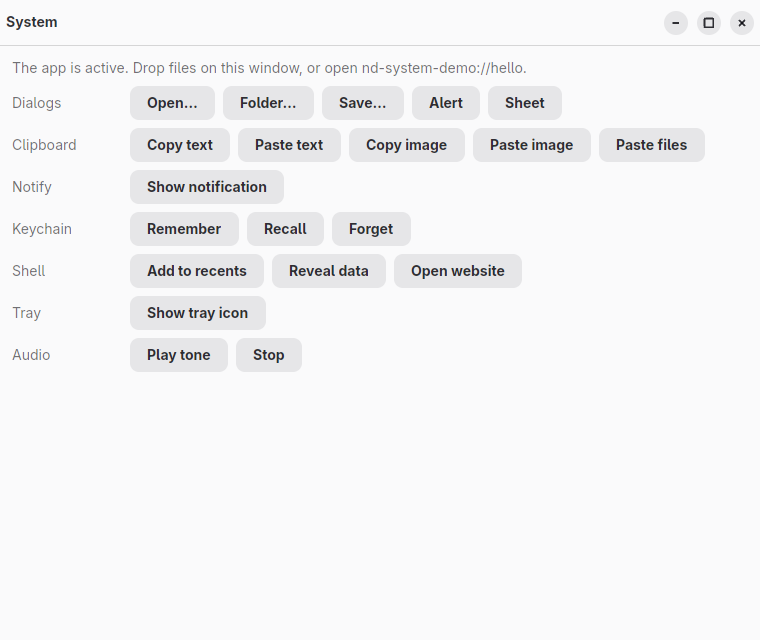
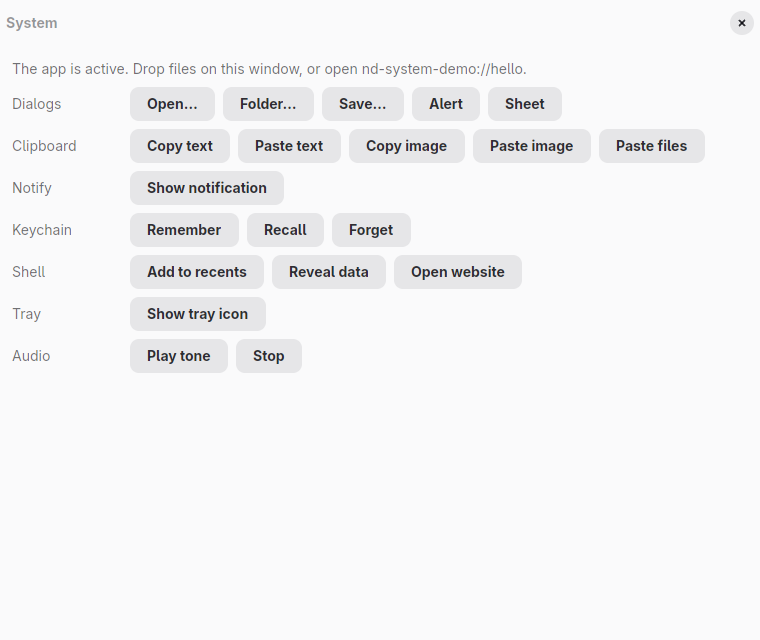
feat(nd-cli): capture linux at scale 2 through wlr-randr

diff --git a/crates/nd-os-linux/src/hooks.rs b/crates/nd-os-linux/src/hooks.rs
@@ -4,9 +4,12 @@
 //!   rules on it (Hyprland's `class`) see the app's name.
 //! - The titlebar insets and the drawn controls follow [`crate::chrome::plan`]: nothing at all
 //!   under server-side decorations (Hyprland), and under client-side ones only the controls
-//!   `wm_capabilities` offers, on the sides the desktop's `button-layout` puts them.  They are
-//!   drawn over every window at the header bar's ends, as every libadwaita window has them, so
-//!   a `window_controls()` node draws nothing: the buttons have one place, as on Windows.
+//!   `wm_capabilities` offers, on the sides the desktop's `button-layout` puts them. An embedded
+//!   `window_controls()` slot draws its group where it sits (a split header's sidebar and
+//!   content ends); the window overlay draws every group no slot took at the header bar's ends,
+//!   so a window without a slot still has its close button, as every libadwaita window does.
+//!   The layout is `org.gnome.desktop.wm.preferences button-layout`, GNOME's `appmenu:close`
+//!   where it cannot be read.
 //! - Frame times come from `wp_presentation` (the fork's `Window::last_presentation`): the
 //!   timestamp is when the previous frame turned into light and the target is the next refresh
 //!   after now on the compositor's predicted cadence, rather than "now plus one interval".
@@ -26,10 +29,10 @@ use nd_gpui::gpui::{
 };
 use nd_icons::Icon;
 use nd_theme::color::with_alpha;
-use nd_ui::TitlebarInsets;
+use nd_ui::{TitlebarInsets, WindowControlsSide};
 
 use crate::chrome::{self, ButtonLayout, Control, ControlMetrics};
-use crate::window::{button_layout, chrome_state, perform, requested_decorations};
+use crate::window::{chrome_state, perform, requested_decorations};
 
 /// The header bar height the controls centre in, libadwaita's 46 px.
 pub const TITLEBAR_HEIGHT: f32 = 46.;
@@ -41,6 +44,15 @@ pub struct LinuxHooks {
     /// Read when a window opens; the hooks that draw are not handed GPUI's app.
     layout: RefCell<ButtonLayout>,
     reported: RefCell<HashMap<WindowId, String>>,
+    /// The groups embedded slots took, per window: in the frame being built, and in the last
+    /// one, which the insets (asked before the build) go by.
+    claimed: RefCell<HashMap<WindowId, (Claimed, Claimed)>>,
+}
+
+#[derive(Clone, Copy, Default, PartialEq, Eq)]
+struct Claimed {
+    leading: bool,
+    trailing: bool,
 }
 
 impl LinuxHooks {
@@ -51,6 +63,7 @@ impl LinuxHooks {
             diag: std::env::var_os("ND_DIAG_WINDOW").is_some_and(|v| v == "1"),
             layout: RefCell::default(),
             reported: RefCell::default(),
+            claimed: RefCell::default(),
         }
     }
 
@@ -68,8 +81,15 @@ impl LinuxHooks {
         plan
     }
 
-    /// The plan's buttons at the header bar's leading and trailing ends.
-    fn controls(&self, plan: &chrome::ChromePlan, look: Look) -> AnyElement {
+    /// The groups no slot took in the last frame, at the header bar's ends.
+    fn unclaimed(&self, window: WindowId, plan: &chrome::ChromePlan) -> (Vec<Control>, Vec<Control>) {
+        let last = self.claimed.borrow().get(&window).map(|c| c.1).unwrap_or_default();
+        let keep = |claimed: bool, side: &[Control]| if claimed { Vec::new() } else { side.to_vec() };
+        (keep(last.leading, &plan.leading), keep(last.trailing, &plan.trailing))
+    }
+
+    /// One group of the plan's buttons in a row the header bar's height.
+    fn controls(&self, controls: &[Control], look: Look) -> gpui::Div {
         let m = self.metrics;
         // libadwaita's window buttons: a circle of the text colour at 10% (15% hovered, 30%
         // pressed) behind a 16 px symbolic icon, close included.
@@ -96,27 +116,15 @@ impl LinuxHooks {
                 .on_click(move |_, window, _| perform(control, window))
                 .child(icon_glyph(icon, px(12.), look.text, px(2.)))
         };
-        let row = |controls: &[Control]| {
-            div()
-                .flex()
-                .flex_row()
-                .items_center()
-                .h(px(TITLEBAR_HEIGHT))
-                .px(px(m.padding))
-                .gap(px(m.spacing))
-                .children(controls.iter().map(|c| button(*c)))
-        };
         div()
-            .absolute()
-            .top_0()
-            .left_0()
-            .right_0()
             .flex()
             .flex_row()
-            .justify_between()
-            .child(row(&plan.leading))
-            .child(row(&plan.trailing))
-            .into_any_element()
+            .flex_none()
+            .items_center()
+            .h(px(TITLEBAR_HEIGHT))
+            .px(px(m.padding))
+            .gap(px(m.spacing))
+            .children(controls.iter().map(|c| button(*c)))
     }
 }
 
@@ -144,8 +152,8 @@ impl OsHooks for LinuxHooks {
         interface_setting("accent-color").and_then(|name| accent_palettes(&name)).unwrap_or_default()
     }
 
-    fn window_opened(&self, _window: WindowId, _gpui_window: &mut gpui::Window, cx: &mut gpui::App) {
-        *self.layout.borrow_mut() = button_layout(cx);
+    fn window_opened(&self, _window: WindowId, _gpui_window: &mut gpui::Window, _cx: &mut gpui::App) {
+        *self.layout.borrow_mut() = button_layout();
     }
 
     fn titlebar_insets(&self, window: WindowId, gpui_window: &gpui::Window) -> Option<TitlebarInsets> {
@@ -153,11 +161,40 @@ impl OsHooks for LinuxHooks {
         if plan.is_empty() {
             return Some(TitlebarInsets::default());
         }
-        Some(TitlebarInsets { leading: plan.leading_inset, trailing: plan.trailing_inset, height: TITLEBAR_HEIGHT })
+        let last = self.claimed.borrow().get(&window).map(|c| c.1).unwrap_or_default();
+        let inset = |claimed: bool, inset: f32| if claimed { 0. } else { inset };
+        Some(TitlebarInsets {
+            leading: inset(last.leading, plan.leading_inset),
+            trailing: inset(last.trailing, plan.trailing_inset),
+            height: TITLEBAR_HEIGHT,
+        })
     }
 
-    fn window_controls(&self, _cx: &ChromeContext, _gpui_window: &mut gpui::Window) -> Option<AnyElement> {
-        Some(div().absolute().into_any_element())
+    /// An embedded slot draws its group in place; a pinned or OS-side node leaves the
+    /// controls to the overlay, which keeps them at the header bar's ends.
+    fn window_controls(&self, cx: &ChromeContext, gpui_window: &mut gpui::Window) -> Option<AnyElement> {
+        if !cx.embedded {
+            return Some(div().absolute().into_any_element());
+        }
+        let (leading, trailing) = match cx.side {
+            Some(WindowControlsSide::Leading) => (true, false),
+            Some(WindowControlsSide::Trailing) => (false, true),
+            None => (true, true),
+        };
+        let mut claimed = self.claimed.borrow_mut();
+        let now = &mut claimed.entry(cx.window).or_default().0;
+        now.leading |= leading;
+        now.trailing |= trailing;
+        drop(claimed);
+        let plan = self.plan(cx.window, gpui_window);
+        let mut group = Vec::new();
+        if leading {
+            group.extend(&plan.leading);
+        }
+        if trailing {
+            group.extend(&plan.trailing);
+        }
+        Some(self.controls(&group, cx.look).into_any_element())
     }
 
     fn window_overlay(
@@ -167,8 +204,28 @@ impl OsHooks for LinuxHooks {
         _title_height: f32,
         gpui_window: &mut gpui::Window,
     ) -> Option<AnyElement> {
+        // The overlay is asked after the build, so this frame's slots are all in.
+        if let Some((now, last)) = self.claimed.borrow_mut().get_mut(&window) {
+            *last = std::mem::take(now);
+        }
         let plan = self.plan(window, gpui_window);
-        (!plan.is_empty()).then(|| self.controls(&plan, look))
+        let (leading, trailing) = self.unclaimed(window, &plan);
+        if leading.is_empty() && trailing.is_empty() {
+            return None;
+        }
+        Some(
+            div()
+                .absolute()
+                .top_0()
+                .left_0()
+                .right_0()
+                .flex()
+                .flex_row()
+                .justify_between()
+                .child(self.controls(&leading, look))
+                .child(self.controls(&trailing, look))
+                .into_any_element(),
+        )
     }
 
     fn frame_time(&self, frame: &FrameRequest, gpui_window: &gpui::Window) -> Option<FrameTime> {
@@ -183,13 +240,25 @@ impl OsHooks for LinuxHooks {
 
     fn window_closed(&self, window: WindowId) {
         self.reported.borrow_mut().remove(&window);
+        self.claimed.borrow_mut().remove(&window);
     }
 }
 
-/// One key of `org.gnome.desktop.interface`, unquoted; `None` without the schema.
+/// GNOME's `button-layout`, the key the settings portal serves and GTK's
+/// `gtk-decoration-layout` follows. GPUI reads it too, but answers Zed's
+/// `minimize,maximize,close` when it is missing, where GNOME would show close alone.
+fn button_layout() -> ButtonLayout {
+    setting("org.gnome.desktop.wm.preferences", "button-layout").map(|l| ButtonLayout::parse(&l)).unwrap_or_default()
+}
+
 fn interface_setting(key: &str) -> Option<String> {
+    setting("org.gnome.desktop.interface", key)
+}
+
+/// One gsettings key, unquoted; `None` without the schema.
+fn setting(schema: &str, key: &str) -> Option<String> {
     let out = std::process::Command::new("gsettings")
-        .args(["get", "org.gnome.desktop.interface", key])
+        .args(["get", schema, key])
         .stderr(std::process::Stdio::null())
         .output()
         .ok()?;

diff --git a/crates/nd-ui/src/element.rs b/crates/nd-ui/src/element.rs
@@ -1098,6 +1098,17 @@ pub struct WindowControlsProps {
     /// A layout slot the size of the controls: the backend moves the real buttons onto the
     /// slot's rect on every layout pass, so they ride with whatever moves the slot.
     pub embedded: bool,
+    /// Which of the OS's two groups an embedded slot takes, where the OS splits them by the
+    /// desktop's button layout (GNOME); `None` takes both. A split header puts the leading
+    /// group at the start of its sidebar header and the trailing one at the end of its content
+    /// header. macOS and Windows keep one group and ignore it.
+    pub side: Option<WindowControlsSide>,
+}
+
+#[derive(Clone, Copy, Debug, PartialEq, Eq, Hash)]
+pub enum WindowControlsSide {
+    Leading,
+    Trailing,
 }
 
 /// The window's own controls (traffic lights on macOS, ARCHITECTURE.md 5.4). The buttons stay
@@ -1107,7 +1118,7 @@ pub struct WindowControls(NativeElement<WindowControlsProps>);
 
 #[track_caller]
 pub fn window_controls() -> WindowControls {
-    let props = WindowControlsProps { at: None, embedded: false };
+    let props = WindowControlsProps { at: None, embedded: false, side: None };
     let element = NativeElement::new::<WindowControls>(Key::Site(Location::caller()), props);
     WindowControls(element.absolute())
 }
@@ -1119,6 +1130,18 @@ impl WindowControls {
         self.0.props_mut().at = None;
         self.0.style().position = Some(nd_gpui::gpui::Position::Relative);
         self
+    }
+
+    /// Embedded, only the controls the desktop puts at the window's start.
+    pub fn leading(mut self) -> Self {
+        self.0.props_mut().side = Some(WindowControlsSide::Leading);
+        self.embedded()
+    }
+
+    /// Embedded, only the controls the desktop puts at the window's end.
+    pub fn trailing(mut self) -> Self {
+        self.0.props_mut().side = Some(WindowControlsSide::Trailing);
+        self.embedded()
     }
 
     pub fn props(&self) -> &WindowControlsProps {

diff --git a/crates/nd-os-linux/src/window.rs b/crates/nd-os-linux/src/window.rs
@@ -3,9 +3,9 @@
 //! `set_mode` for the decorations the window was opened with, and stores the compositor's
 //! `configure` answer and `wm_capabilities`. This module only reads those back.
 
-use nd_gpui::gpui::{self, App, Window, WindowButton, WindowButtonLayout, WindowDecorations};
+use nd_gpui::gpui::{self, Window, WindowDecorations};
 
-use crate::chrome::{ButtonLayout, Capabilities, ChromePlan, ChromeState, Control, ControlMetrics, Decorations};
+use crate::chrome::{ButtonLayout, Capabilities, ChromeState, Control, Decorations};
 
 /// What nd asks the compositor for. Server-side wherever the compositor offers it, unless
 /// `ND_CLIENT_DECORATIONS=1` asks for the frame GNOME gets (docs captures, chrome checks under a
@@ -35,31 +35,6 @@ pub fn chrome_state(window: &Window, layout: &ButtonLayout) -> ChromeState {
         layout: layout.clone(),
         fullscreen: window.is_fullscreen(),
     }
-}
-
-pub fn chrome_plan(window: &Window, cx: &App) -> ChromePlan {
-    crate::chrome::plan(&chrome_state(window, &button_layout(cx)), ControlMetrics::default())
-}
-
-/// The desktop's `button-layout` as GPUI read it (from the settings portal on Linux), or GNOME's
-/// default where it has none.
-pub fn button_layout(cx: &App) -> ButtonLayout {
-    cx.button_layout().map(from_gpui).unwrap_or_default()
-}
-
-fn from_gpui(layout: WindowButtonLayout) -> ButtonLayout {
-    let side = |buttons: &[Option<WindowButton>]| {
-        buttons
-            .iter()
-            .flatten()
-            .map(|b| match b {
-                WindowButton::Minimize => Control::Minimize,
-                WindowButton::Maximize => Control::Maximize,
-                WindowButton::Close => Control::Close,
-            })
-            .collect()
-    };
-    ButtonLayout { leading: side(&layout.left), trailing: side(&layout.right) }
 }
 
 /// The OS action of a drawn control.

diff --git a/crates/ndshell/src/labwc.rs b/crates/ndshell/src/labwc.rs
@@ -86,6 +86,24 @@ impl Labwc {
         }
     }
 
+    /// Sets the headless output's size in pixels and its scale, through wlr-output-management
+    /// (`wlr-randr`, `ND_WLR_RANDR` overrides the binary). Windows open at their logical size, so
+    /// at scale 2 they draw at twice the pixels, as on a HiDPI screen.
+    pub fn set_output(&self, width: u32, height: u32, scale: f32) -> Result<(), String> {
+        let binary = std::env::var_os("ND_WLR_RANDR").unwrap_or_else(|| "wlr-randr".into());
+        let mut command = self.command(&binary);
+        let output = command.arg("--json").output().map_err(|e| format!("wlr-randr: {e}"))?;
+        let outputs: serde_json::Value =
+            serde_json::from_slice(&output.stdout).map_err(|e| format!("wlr-randr: {e}"))?;
+        let name = outputs[0]["name"].as_str().ok_or("wlr-randr lists no output")?.to_owned();
+        let status = self
+            .command(&binary)
+            .args(["--output", &name, "--custom-mode", &format!("{width}x{height}"), "--scale", &scale.to_string()])
+            .status()
+            .map_err(|e| format!("wlr-randr: {e}"))?;
+        status.success().then_some(()).ok_or_else(|| format!("wlr-randr exited with {status}"))
+    }
+
     pub fn wayland_socket(&self) -> PathBuf {
         self.runtime_dir.join(&self.wayland_display)
     }

diff --git a/crates/nd-ui/src/lib.rs b/crates/nd-ui/src/lib.rs
@@ -32,8 +32,8 @@ pub use drag::{DragEnded, DragItem, DragOutcome, DragOver, DragOverPhase, DragPo
 pub use element::{
     AnyElement, Bezel, Button, ButtonProps, ButtonVariant, ClickEvent, DispatchProps, Div, DivProps, HeroFrom,
     HoverChanged, InteractiveElement, IntoElement, Key, NativeElement, ParentElement, Resized, RootProps, Scope, Text,
-    TextProps, WindowControls, WindowControlsProps, button, deferred, div, drag_region, h_flex, rich_text, text,
-    v_flex, window_controls,
+    TextProps, WindowControls, WindowControlsProps, WindowControlsSide, button, deferred, div, drag_region, h_flex,
+    rich_text, text, v_flex, window_controls,
 };
 pub use layout::with_titlebar_insets;
 pub use nd_core::semantic::{Role, SemanticNode, SemanticTree, SemanticWindow};

diff --git a/crates/nd-backend-gpui/src/render.rs b/crates/nd-backend-gpui/src/render.rs
@@ -1078,7 +1078,13 @@ impl<'a> Build<'a> {
     /// The OS's own controls where it draws them (macOS traffic lights, server decorations);
     /// drawn buttons only under client-side decorations, for the actions the compositor offers.
     fn window_controls(&self, props: &WindowControlsProps, window: &mut gpui::Window) -> AnyElement {
-        let cx = ChromeContext { window: self.window_id, at: props.at, look: self.look() };
+        let cx = ChromeContext {
+            window: self.window_id,
+            at: props.at,
+            embedded: props.embedded,
+            side: props.side,
+            look: self.look(),
+        };
         if let Some(custom) = self.hooks.window_controls(&cx, window) {
             return custom;
         }

diff --git a/crates/nd-cli/src/docs.rs b/crates/nd-cli/src/docs.rs
@@ -755,7 +755,10 @@ mod capture {
 
     #[cfg(target_os = "linux")]
     fn session() -> Result<Session> {
-        ndshell::labwc::Labwc::start().map_err(|e| anyhow::anyhow!("headless labwc: {e}"))
+        let labwc = ndshell::labwc::Labwc::start().map_err(|e| anyhow::anyhow!("headless labwc: {e}"))?;
+        // At scale 2, as the macOS shots are, so the site shows every OS at one size.
+        labwc.set_output(3200, 2000, 2.).map_err(|e| anyhow::anyhow!("headless labwc output: {e}"))?;
+        Ok(labwc)
     }
 
     #[cfg(target_os = "macos")]

diff --git a/crates/nd-backend-gpui/src/os.rs b/crates/nd-backend-gpui/src/os.rs
@@ -23,6 +23,9 @@ pub struct ChromeContext {
     pub window: WindowId,
     /// Pinned position (`window_controls().at(..)`); `None` means the OS side.
     pub at: Option<Point>,
+    /// An embedded slot (`window_controls().embedded()`), and the group it takes.
+    pub embedded: bool,
+    pub side: Option<nd_ui::WindowControlsSide>,
     pub look: Look,
 }
 

diff --git a/docs/content/tooling/cli.md b/docs/content/tooling/cli.md
@@ -206,10 +206,6 @@ the repository.
   capture it again.
   On Windows the examples are launched and captured by `ndshell agent`, which runs in the
   logged-in user's session (`ndshell agent install`), so the command also works over ssh.
-  On Linux they run in a private headless labwc with `ND_CLIENT_DECORATIONS=1`, so each window
-  draws its own header bar controls as it does on GNOME. An example lists an OS under
-  `no_capture` in `docs/examples.toml`, with the reason, when it has nothing to show there yet;
-  that OS's tab shows the reason instead of a shot.
 
 ```sh
 nd docs check --require macos && nd docs capture --stale
